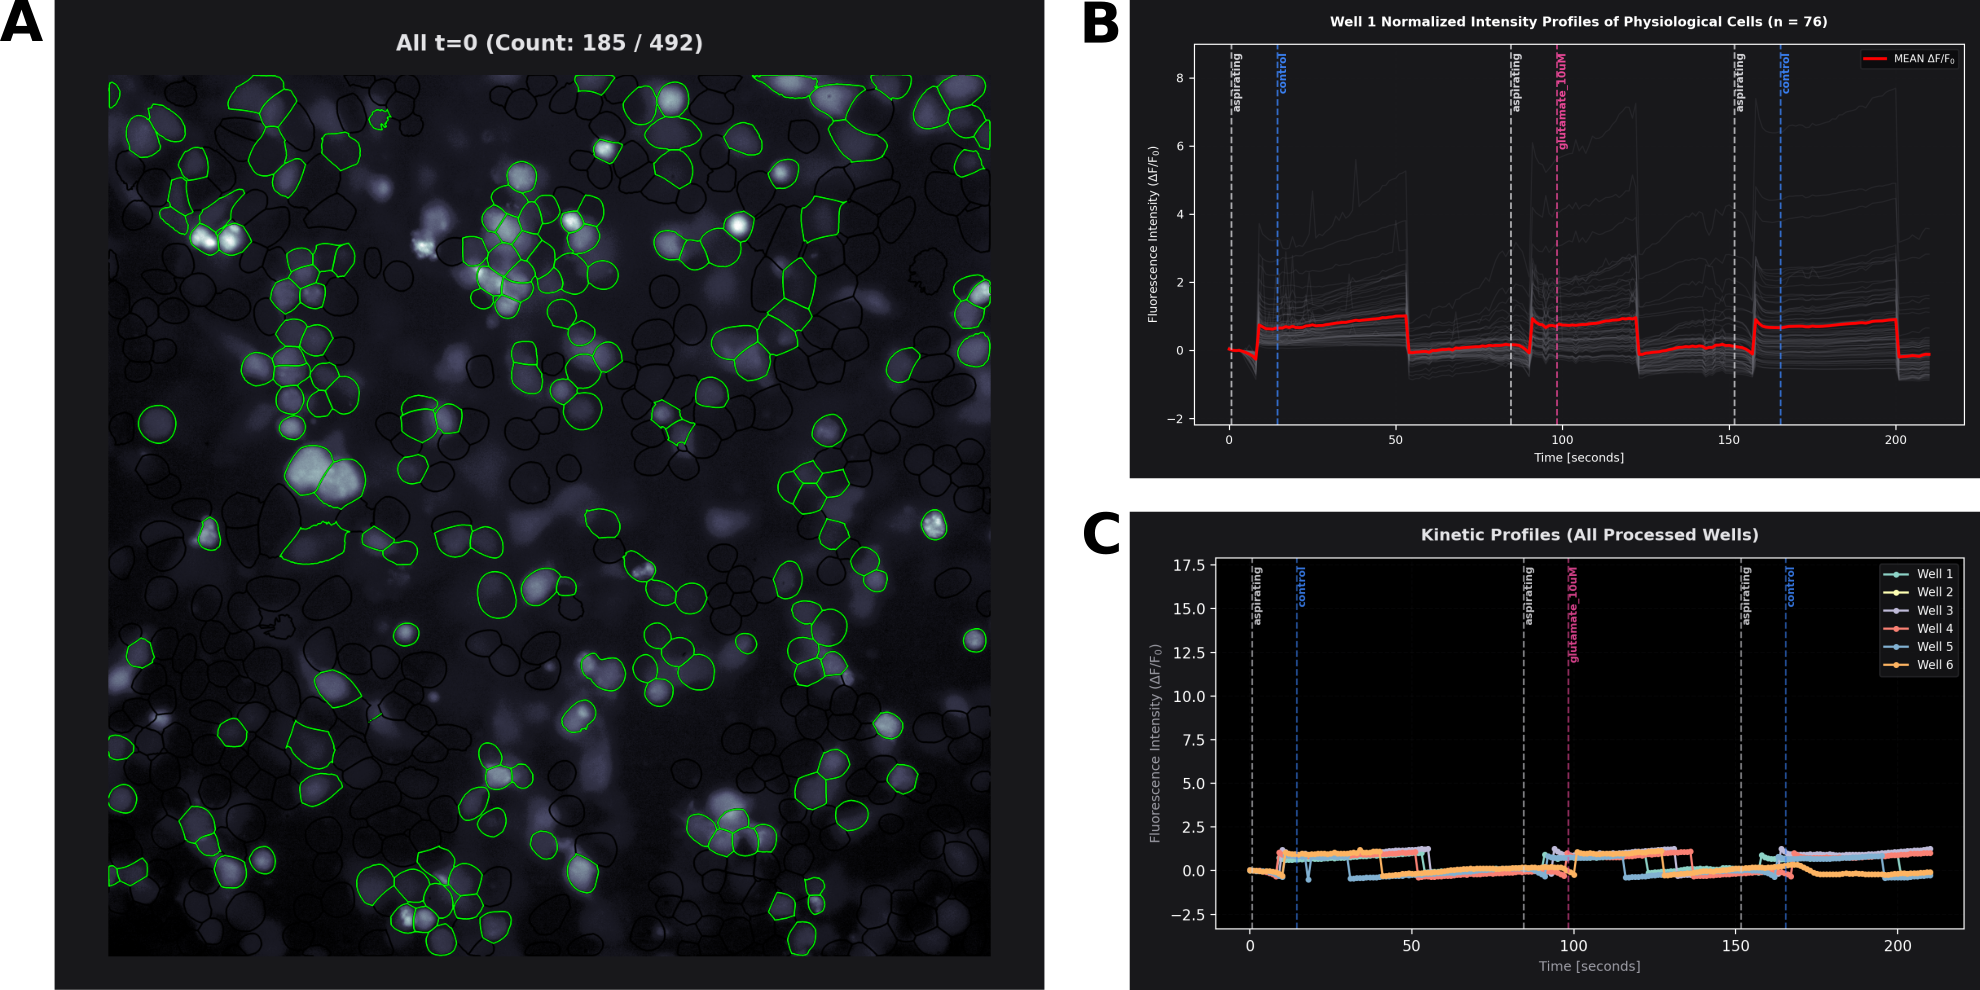
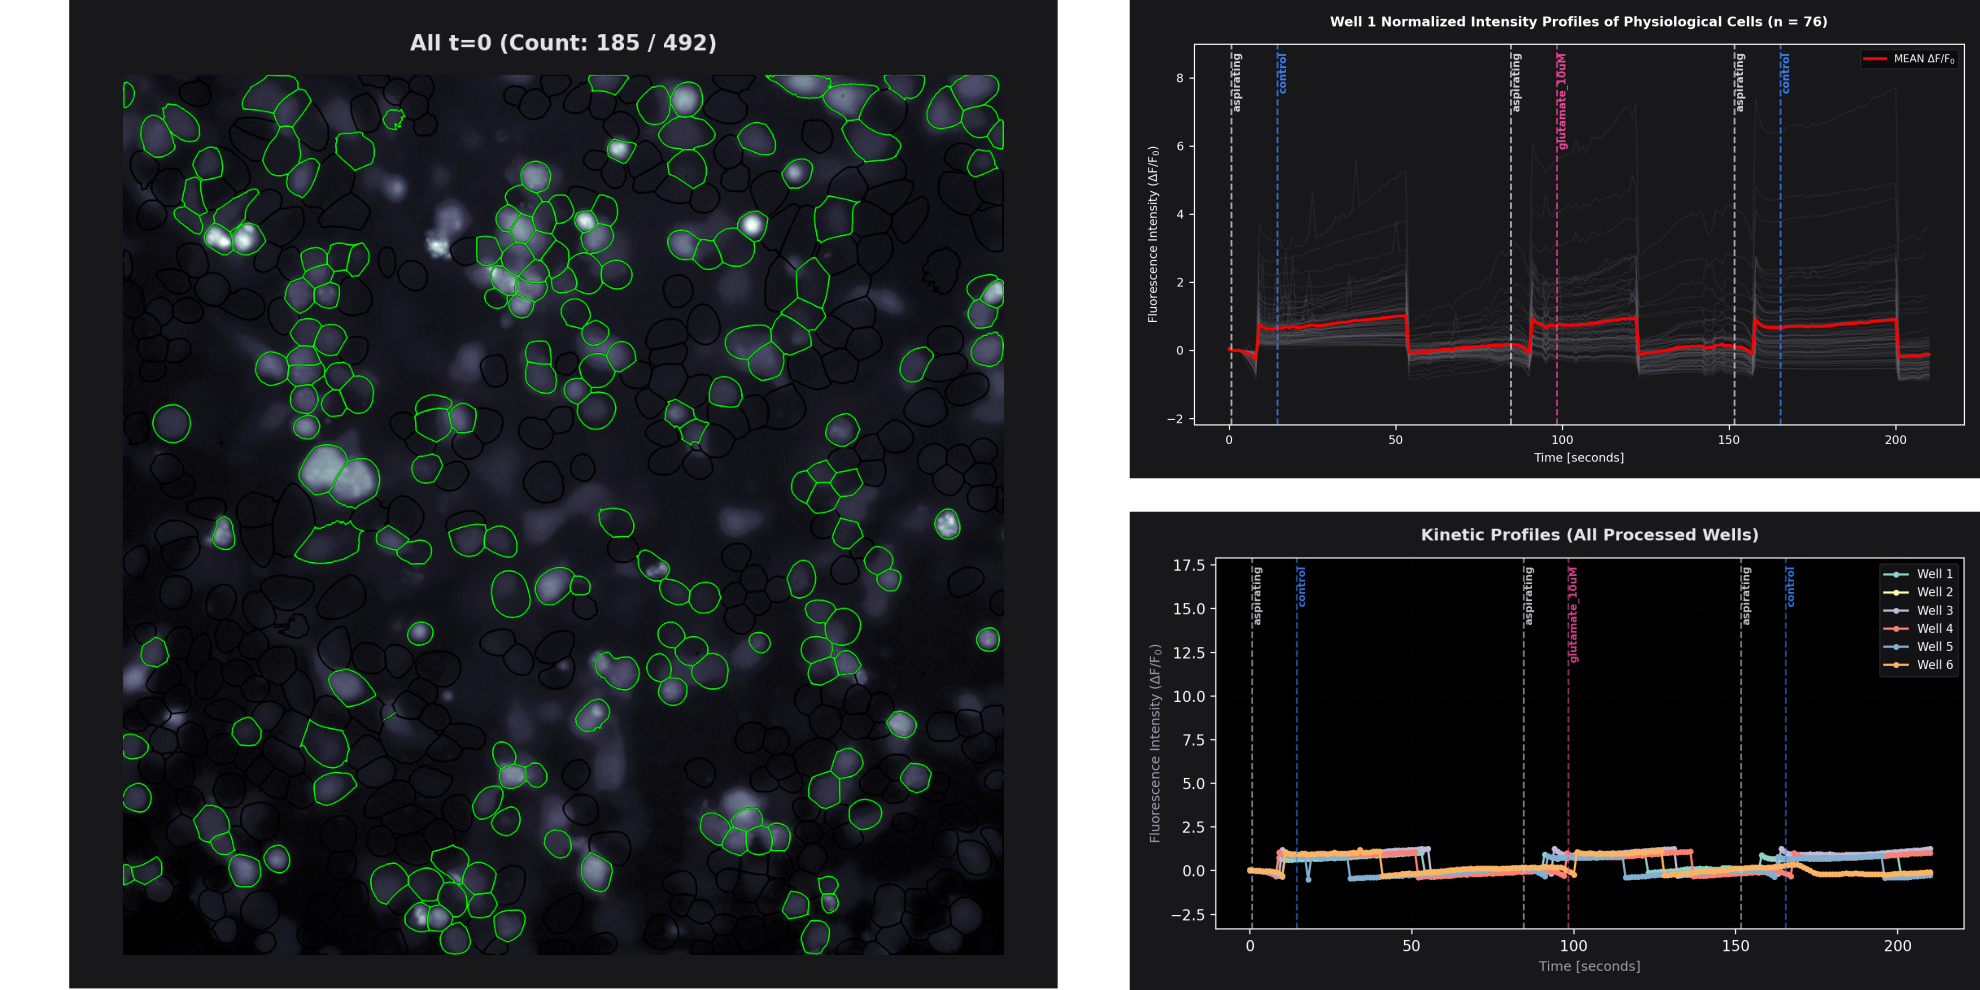
updates

Changed region(s): [[0.0, 0.0, 0.5854, 1.0], [0.1848, 0.6061, 0.2157, 0.6667], [0.1232, 0.6061, 0.154, 0.6364]]

diff --git a/README.md b/README.md
@@ -35,7 +35,7 @@ which bridges the Python backend to a headless Java-based Micro-Manager [2] (v2.
 The Micro-Manager instance is created using the config file MMConfig.cfg.
 
 ### Software
-<img src="/Figures/web_app_structure_.png" width="920">
+<img src="/Figures/web_app_structure.png" width="920">
 
 After the build, the setup can be controlled via a custom-developed web application called "Automated Bath Perfusion App". 
 The web application serves as a single-page dashboard designed to organize all operational controls into three dedicated panels arranged from left to right:
@@ -119,7 +119,7 @@ Modularity allows for interchangeable reservoir sizes to accommodate varying exp
 Software autofocus performance throughout a 6-well plate. 
 For each well, except for the starting position A1, a course scan followed by a fine scan are carried out as shown on the left, resulting in a focussed sample shown on the right of each well.
 
-<img src="/Figures/GFP_w.png" width="500">
+<img src="/Figures/GFP.png" width="500">
 
 Bath perfusion experiment with GFP (plasmid ID 25-07) tagged ND cells. (**A**) Fluorescence overlay with segmented masks detected by Cellpose. The green outlines are the cells labeled as fluorescent, the black outlines show the rest of the segmented cells. (**B**) Physiological fluorescence intensity change / SBR of single cells (grey) and mean (red). (**C**) Mean trajectories of all wells for comparison.
 
